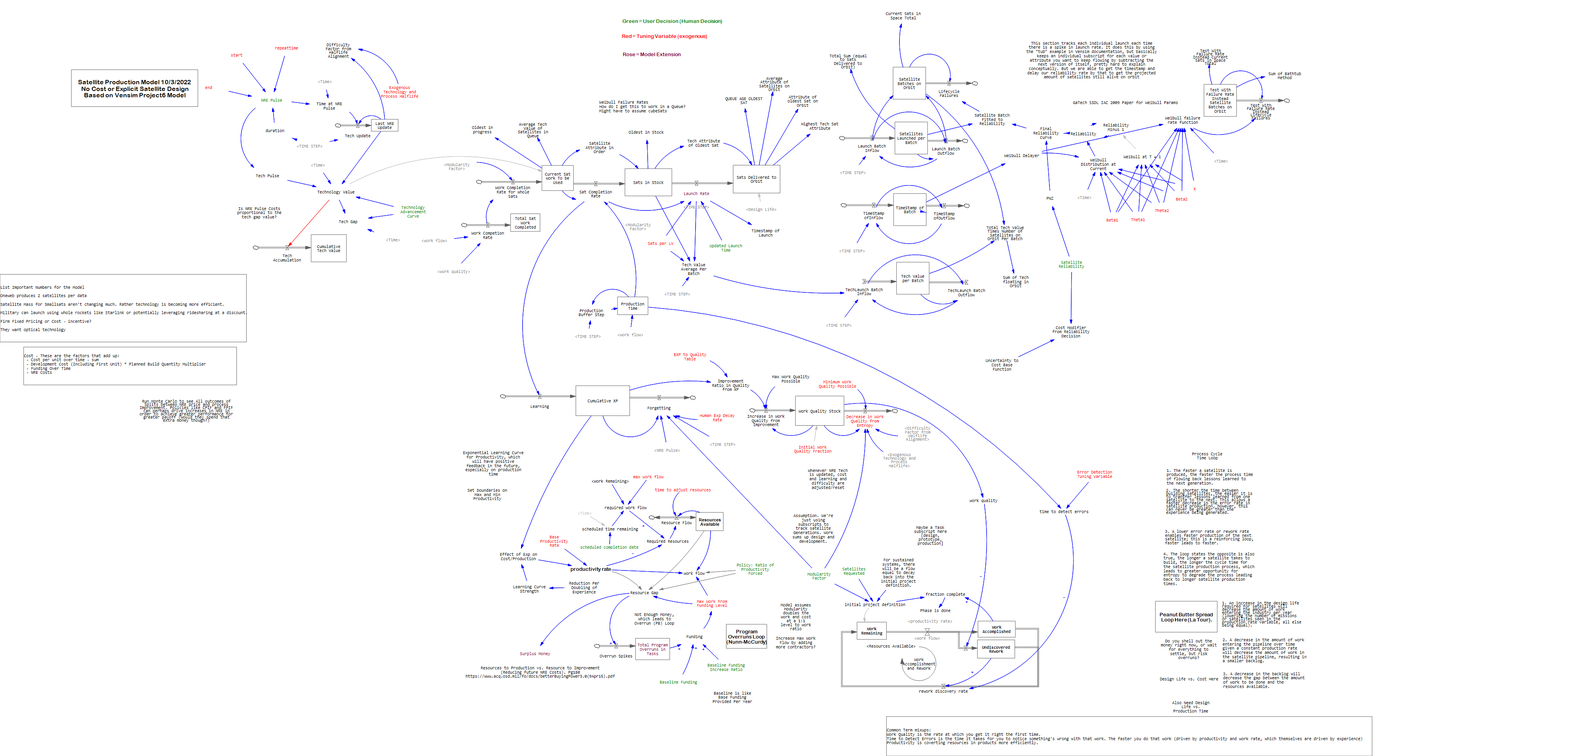
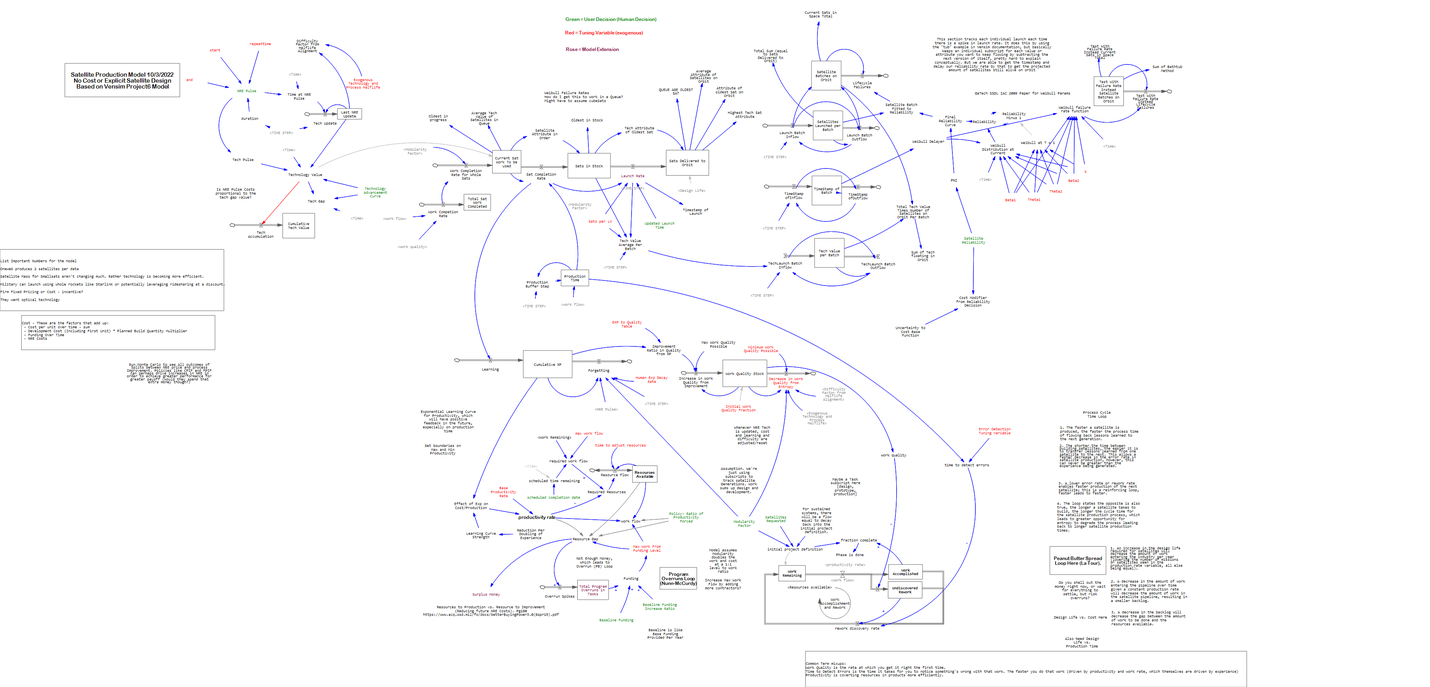
Add files via upload

diff --git a/index.html b/index.html
@@ -9,8 +9,8 @@ div.sketch {
   position: relative;
 }
 .io-slider-box {
-background-color: white; border: 1px solid gray; font-size:8px;
-text-align: center; vertical-align: middle; line-height: 9px;
+background-color: white; border: 1px solid gray; font-size:7px;
+text-align: center; vertical-align: middle; line-height: 8px;
 }
 .io-slider-slide {
   padding: 0; margin: 0; -webkit-appearance: none; background: transparent;
@@ -19,15 +19,15 @@ text-align: center; vertical-align: middle; line-height: 9px;
   background: transparent; border-color: transparent; color: transparent;
 }
 .io-slider-slide::-webkit-slider-thumb {
-  -webkit-appearance: none; width: 10px; height: 10px;
+  -webkit-appearance: none; width: 9px; height: 9px;
   border-radius: 20%; background: blue; cursor: pointer;
 }
 .io-slider-slide::-moz-range-thumb {
-  height: 10px; width: 10px;
+  height: 9px; width: 9px;
     border-radius: 20%; background: blue; cursor: pointer;
 }
 .io-slider-slide::-ms-thumb {
-  height: 10px; width: 10px;
+  height: 9px; width: 9px;
   border-radius: 20%; background: blue; cursor: pointer;
 }
 div.io-chart {
@@ -73,172 +73,172 @@ button.exportCSV {
 
 <div class="sketch">
 <img src="sketch.png"></img>
-<div class="io-slider-box" name="time to adjust resources" style="position: absolute; top: 1247px; left: 1650px; width: 150px; height: 9px">
+<div class="io-slider-box" name="time to adjust resources" style="position: absolute; top: 1134px; left: 1500px; width: 136px; height: 8px">
 1
 </div>
-<input class="io-slider-slide" style="position: absolute; top: 1256px; left: 1650px; width: 150px" type="range" name="time to adjust resources" min="-1" max="2" step="0.01"></input>
-<div class="io-slider-box" name="max work flow" style="position: absolute; top: 1214px; left: 1596px; width: 83px; height: 10px">
+<input class="io-slider-slide" style="position: absolute; top: 1142px; left: 1500px; width: 136px" type="range" name="time to adjust resources" min="-1" max="2" step="0.01"></input>
+<div class="io-slider-box" name="max work flow" style="position: absolute; top: 1104px; left: 1451px; width: 75px; height: 8px">
 500
 </div>
-<input class="io-slider-slide" style="position: absolute; top: 1224px; left: 1596px; width: 83px" type="range" name="max work flow" min="-1000" max="2000" step="10"></input>
-<div class="io-slider-box" name="scheduled completion date" style="position: absolute; top: 1392px; left: 1461px; width: 156px; height: 10px">
+<input class="io-slider-slide" style="position: absolute; top: 1112px; left: 1451px; width: 75px" type="range" name="max work flow" min="-1000" max="2000" step="10"></input>
+<div class="io-slider-box" name="scheduled completion date" style="position: absolute; top: 1266px; left: 1329px; width: 141px; height: 8px">
 60
 </div>
-<input class="io-slider-slide" style="position: absolute; top: 1402px; left: 1461px; width: 156px" type="range" name="scheduled completion date" min="-100" max="200" step="1"></input>
-<div class="io-slider-box" name="Baseline Funding" style="position: absolute; top: 1745px; left: 1663px; width: 101px; height: 9px">
+<input class="io-slider-slide" style="position: absolute; top: 1274px; left: 1329px; width: 141px" type="range" name="scheduled completion date" min="-100" max="200" step="1"></input>
+<div class="io-slider-box" name="Baseline Funding" style="position: absolute; top: 1586px; left: 1512px; width: 91px; height: 9px">
 250
 </div>
-<input class="io-slider-slide" style="position: absolute; top: 1754px; left: 1663px; width: 101px" type="range" name="Baseline Funding" min="-1000" max="2000" step="10"></input>
-<div class="io-slider-box" name="Satellites Requested" style="position: absolute; top: 1464px; left: 2107px; width: 100px; height: 10px">
+<input class="io-slider-slide" style="position: absolute; top: 1595px; left: 1512px; width: 91px" type="range" name="Baseline Funding" min="-1000" max="2000" step="10"></input>
+<div class="io-slider-box" name="Satellites Requested" style="position: absolute; top: 1331px; left: 1915px; width: 91px; height: 9px">
 1000
 </div>
-<input class="io-slider-slide" style="position: absolute; top: 1474px; left: 2107px; width: 100px" type="range" name="Satellites Requested" min="-1000" max="2000" step="10"></input>
-<div class="io-slider-box" name="Modularity Factor" style="position: absolute; top: 1477px; left: 2019px; width: 100px; height: 9px">
+<input class="io-slider-slide" style="position: absolute; top: 1340px; left: 1915px; width: 91px" type="range" name="Satellites Requested" min="-1000" max="2000" step="10"></input>
+<div class="io-slider-box" name="Modularity Factor" style="position: absolute; top: 1343px; left: 1835px; width: 92px; height: 8px">
 1
 </div>
-<input class="io-slider-slide" style="position: absolute; top: 1486px; left: 2019px; width: 100px" type="range" name="Modularity Factor" min="1" max="6" step="1"></input>
-<div class="io-slider-box" name="Modularity Factor" style="position: absolute; top: 594px; left: 1561px; width: 101px; height: 9px">
+<input class="io-slider-slide" style="position: absolute; top: 1351px; left: 1835px; width: 92px" type="range" name="Modularity Factor" min="1" max="6" step="1"></input>
+<div class="io-slider-box" name="Modularity Factor" style="position: absolute; top: 540px; left: 1419px; width: 92px; height: 8px">
 1
 </div>
-<input class="io-slider-slide" style="position: absolute; top: 603px; left: 1561px; width: 101px" type="range" name="Modularity Factor" min="1" max="6" step="1"></input>
-<div class="io-slider-box" name="Exogenous Technology and Process Halflife" style="position: absolute; top: 253px; left: 959px; width: 100px; height: 9px">
+<input class="io-slider-slide" style="position: absolute; top: 548px; left: 1419px; width: 92px" type="range" name="Modularity Factor" min="1" max="6" step="1"></input>
+<div class="io-slider-box" name="Exogenous Technology and Process Halflife" style="position: absolute; top: 230px; left: 872px; width: 91px; height: 8px">
 48
 </div>
-<input class="io-slider-slide" style="position: absolute; top: 262px; left: 959px; width: 100px" type="range" name="Exogenous Technology and Process Halflife" min="-100" max="200" step="1"></input>
-<div class="io-slider-box" name="TIME STEP" style="position: absolute; top: 389px; left: 732px; width: 100px; height: 10px">
+<input class="io-slider-slide" style="position: absolute; top: 238px; left: 872px; width: 91px" type="range" name="Exogenous Technology and Process Halflife" min="-100" max="200" step="1"></input>
+<div class="io-slider-box" name="TIME STEP" style="position: absolute; top: 354px; left: 665px; width: 92px; height: 9px">
 0.125
 </div>
-<input class="io-slider-slide" style="position: absolute; top: 399px; left: 732px; width: 100px" type="range" name="TIME STEP" min="-1" max="2" step="0.01"></input>
-<div class="io-slider-box" name="start" style="position: absolute; top: 160px; left: 548px; width: 100px; height: 10px">
+<input class="io-slider-slide" style="position: absolute; top: 363px; left: 665px; width: 92px" type="range" name="TIME STEP" min="-1" max="2" step="0.01"></input>
+<div class="io-slider-box" name="start" style="position: absolute; top: 146px; left: 498px; width: 91px; height: 8px">
 0
 </div>
-<input class="io-slider-slide" style="position: absolute; top: 170px; left: 548px; width: 100px" type="range" name="start" min="-1" max="2" step="0.01"></input>
-<div class="io-slider-box" name="repeattime" style="position: absolute; top: 142px; left: 674px; width: 100px; height: 10px">
+<input class="io-slider-slide" style="position: absolute; top: 154px; left: 498px; width: 91px" type="range" name="start" min="-1" max="2" step="0.01"></input>
+<div class="io-slider-box" name="repeattime" style="position: absolute; top: 129px; left: 612px; width: 92px; height: 9px">
 12
 </div>
-<input class="io-slider-slide" style="position: absolute; top: 152px; left: 674px; width: 100px" type="range" name="repeattime" min="-100" max="200" step="1"></input>
-<div class="io-slider-box" name="end" style="position: absolute; top: 242px; left: 477px; width: 100px; height: 9px">
+<input class="io-slider-slide" style="position: absolute; top: 138px; left: 612px; width: 92px" type="range" name="repeattime" min="-100" max="200" step="1"></input>
+<div class="io-slider-box" name="end" style="position: absolute; top: 220px; left: 433px; width: 92px; height: 9px">
 60
 </div>
-<input class="io-slider-slide" style="position: absolute; top: 251px; left: 477px; width: 100px" type="range" name="end" min="-100" max="200" step="1"></input>
-<div class="io-slider-box" name="Updated Launch Time" style="position: absolute; top: 647px; left: 1783px; width: 101px; height: 10px">
+<input class="io-slider-slide" style="position: absolute; top: 229px; left: 433px; width: 92px" type="range" name="end" min="-100" max="200" step="1"></input>
+<div class="io-slider-box" name="Updated Launch Time" style="position: absolute; top: 588px; left: 1621px; width: 91px; height: 9px">
 0.25
 </div>
-<input class="io-slider-slide" style="position: absolute; top: 657px; left: 1783px; width: 101px" type="range" name="Updated Launch Time" min="-1" max="2" step="0.01"></input>
-<div class="io-slider-box" name="Sats per LV" style="position: absolute; top: 636px; left: 1618px; width: 101px; height: 9px">
+<input class="io-slider-slide" style="position: absolute; top: 597px; left: 1621px; width: 91px" type="range" name="Updated Launch Time" min="-1" max="2" step="0.01"></input>
+<div class="io-slider-box" name="Sats per LV" style="position: absolute; top: 578px; left: 1471px; width: 91px; height: 9px">
 55
 </div>
-<input class="io-slider-slide" style="position: absolute; top: 645px; left: 1618px; width: 101px" type="range" name="Sats per LV" min="1" max="100" step="1"></input>
-<div class="io-slider-box" name="Modularity Factor" style="position: absolute; top: 442px; left: 1104px; width: 100px; height: 9px">
+<input class="io-slider-slide" style="position: absolute; top: 587px; left: 1471px; width: 91px" type="range" name="Sats per LV" min="1" max="100" step="1"></input>
+<div class="io-slider-box" name="Modularity Factor" style="position: absolute; top: 402px; left: 1003px; width: 92px; height: 8px">
 1
 </div>
-<input class="io-slider-slide" style="position: absolute; top: 451px; left: 1104px; width: 100px" type="range" name="Modularity Factor" min="1" max="6" step="1"></input>
-<div class="io-slider-box" name="Satellite Reliability" style="position: absolute; top: 689px; left: 2656px; width: 101px; height: 9px">
+<input class="io-slider-slide" style="position: absolute; top: 410px; left: 1003px; width: 92px" type="range" name="Modularity Factor" min="1" max="6" step="1"></input>
+<div class="io-slider-box" name="Satellite Reliability" style="position: absolute; top: 626px; left: 2415px; width: 91px; height: 9px">
 0.9
 </div>
-<input class="io-slider-slide" style="position: absolute; top: 698px; left: 2656px; width: 101px" type="range" name="Satellite Reliability" min="0" max="1" step="0.01"></input>
-<div class="io-slider-box" name="Beta1" style="position: absolute; top: 577px; left: 2759px; width: 101px; height: 9px">
+<input class="io-slider-slide" style="position: absolute; top: 635px; left: 2415px; width: 91px" type="range" name="Satellite Reliability" min="0" max="1" step="0.01"></input>
+<div class="io-slider-box" name="Beta1" style="position: absolute; top: 525px; left: 2508px; width: 92px; height: 8px">
 0.4154
 </div>
-<input class="io-slider-slide" style="position: absolute; top: 586px; left: 2759px; width: 101px" type="range" name="Beta1" min="-1" max="2" step="0.01"></input>
-<div class="io-slider-box" name="Beta2" style="position: absolute; top: 523px; left: 2935px; width: 100px; height: 10px">
+<input class="io-slider-slide" style="position: absolute; top: 533px; left: 2508px; width: 92px" type="range" name="Beta1" min="-1" max="2" step="0.01"></input>
+<div class="io-slider-box" name="Beta2" style="position: absolute; top: 476px; left: 2668px; width: 91px; height: 8px">
 5.06
 </div>
-<input class="io-slider-slide" style="position: absolute; top: 533px; left: 2935px; width: 100px" type="range" name="Beta2" min="-10" max="20" step="0.1"></input>
-<div class="io-slider-box" name="Theta1" style="position: absolute; top: 576px; left: 2824px; width: 101px; height: 9px">
+<input class="io-slider-slide" style="position: absolute; top: 484px; left: 2668px; width: 91px" type="range" name="Beta2" min="-10" max="20" step="0.1"></input>
+<div class="io-slider-box" name="Theta1" style="position: absolute; top: 523px; left: 2567px; width: 92px; height: 9px">
 558612
 </div>
-<input class="io-slider-slide" style="position: absolute; top: 585px; left: 2824px; width: 101px" type="range" name="Theta1" min="-1e+06" max="2e+06" step="10000"></input>
-<div class="io-slider-box" name="Theta2" style="position: absolute; top: 553px; left: 2885px; width: 100px; height: 9px">
+<input class="io-slider-slide" style="position: absolute; top: 532px; left: 2567px; width: 92px" type="range" name="Theta1" min="-1e+06" max="2e+06" step="10000"></input>
+<div class="io-slider-box" name="Theta2" style="position: absolute; top: 503px; left: 2622px; width: 92px; height: 8px">
 122.52
 </div>
-<input class="io-slider-slide" style="position: absolute; top: 562px; left: 2885px; width: 100px" type="range" name="Theta2" min="-1000" max="2000" step="10"></input>
-<div class="io-slider-box" name="k" style="position: absolute; top: 497px; left: 2968px; width: 100px; height: 10px">
+<input class="io-slider-slide" style="position: absolute; top: 511px; left: 2622px; width: 92px" type="range" name="Theta2" min="-1000" max="2000" step="10"></input>
+<div class="io-slider-box" name="k" style="position: absolute; top: 452px; left: 2698px; width: 91px; height: 9px">
 0.9057
 </div>
-<input class="io-slider-slide" style="position: absolute; top: 507px; left: 2968px; width: 100px" type="range" name="k" min="-1" max="2" step="0.01"></input>
-<div class="io-slider-box" name="Design Life" style="position: absolute; top: 550px; left: 1873px; width: 100px; height: 10px">
+<input class="io-slider-slide" style="position: absolute; top: 461px; left: 2698px; width: 91px" type="range" name="k" min="-1" max="2" step="0.01"></input>
+<div class="io-slider-box" name="Design Life" style="position: absolute; top: 500px; left: 1703px; width: 91px; height: 9px">
 24
 </div>
-<input class="io-slider-slide" style="position: absolute; top: 560px; left: 1873px; width: 100px" type="range" name="Design Life" min="8.40779e-45" max="200" step="1"></input>
-<div class="io-slider-box" name="TIME STEP" style="position: absolute; top: 457px; left: 2104px; width: 100px; height: 9px">
+<input class="io-slider-slide" style="position: absolute; top: 509px; left: 1703px; width: 91px" type="range" name="Design Life" min="8.40779e-45" max="200" step="1"></input>
+<div class="io-slider-box" name="TIME STEP" style="position: absolute; top: 416px; left: 1913px; width: 91px; height: 8px">
 0.125
 </div>
-<input class="io-slider-slide" style="position: absolute; top: 466px; left: 2104px; width: 100px" type="range" name="TIME STEP" min="-1" max="2" step="0.01"></input>
-<div class="io-slider-box" name="TIME STEP" style="position: absolute; top: 655px; left: 2102px; width: 100px; height: 9px">
+<input class="io-slider-slide" style="position: absolute; top: 424px; left: 1913px; width: 91px" type="range" name="TIME STEP" min="-1" max="2" step="0.01"></input>
+<div class="io-slider-box" name="TIME STEP" style="position: absolute; top: 595px; left: 1911px; width: 91px; height: 9px">
 0.125
 </div>
-<input class="io-slider-slide" style="position: absolute; top: 664px; left: 2102px; width: 100px" type="range" name="TIME STEP" min="-1" max="2" step="0.01"></input>
-<div class="io-slider-box" name="TIME STEP" style="position: absolute; top: 842px; left: 2068px; width: 101px; height: 10px">
+<input class="io-slider-slide" style="position: absolute; top: 604px; left: 1911px; width: 91px" type="range" name="TIME STEP" min="-1" max="2" step="0.01"></input>
+<div class="io-slider-box" name="TIME STEP" style="position: absolute; top: 766px; left: 1880px; width: 92px; height: 8px">
 0.125
 </div>
-<input class="io-slider-slide" style="position: absolute; top: 852px; left: 2068px; width: 101px" type="range" name="TIME STEP" min="-1" max="2" step="0.01"></input>
-<div class="io-slider-box" name="TIME STEP" style="position: absolute; top: 544px; left: 1709px; width: 100px; height: 10px">
+<input class="io-slider-slide" style="position: absolute; top: 774px; left: 1880px; width: 92px" type="range" name="TIME STEP" min="-1" max="2" step="0.01"></input>
+<div class="io-slider-box" name="TIME STEP" style="position: absolute; top: 495px; left: 1553px; width: 92px; height: 8px">
 0.125
 </div>
-<input class="io-slider-slide" style="position: absolute; top: 554px; left: 1709px; width: 100px" type="range" name="TIME STEP" min="-1" max="2" step="0.01"></input>
-<div class="io-slider-box" name="TIME STEP" style="position: absolute; top: 764px; left: 1660px; width: 101px; height: 9px">
+<input class="io-slider-slide" style="position: absolute; top: 503px; left: 1553px; width: 92px" type="range" name="TIME STEP" min="-1" max="2" step="0.01"></input>
+<div class="io-slider-box" name="TIME STEP" style="position: absolute; top: 694px; left: 1509px; width: 92px; height: 9px">
 0.125
 </div>
-<input class="io-slider-slide" style="position: absolute; top: 773px; left: 1660px; width: 101px" type="range" name="TIME STEP" min="-1" max="2" step="0.01"></input>
-<div class="io-slider-box" name="Human Exp Decay Rate" style="position: absolute; top: 1076px; left: 1762px; width: 100px; height: 10px">
+<input class="io-slider-slide" style="position: absolute; top: 703px; left: 1509px; width: 92px" type="range" name="TIME STEP" min="-1" max="2" step="0.01"></input>
+<div class="io-slider-box" name="Human Exp Decay Rate" style="position: absolute; top: 978px; left: 1601px; width: 92px; height: 9px">
 24
 </div>
-<input class="io-slider-slide" style="position: absolute; top: 1086px; left: 1762px; width: 100px" type="range" name="Human Exp Decay Rate" min="-100" max="200" step="1"></input>
-<div class="io-slider-box" name="Baseline Funding Increase Ratio" style="position: absolute; top: 1707px; left: 1784px; width: 100px; height: 10px">
+<input class="io-slider-slide" style="position: absolute; top: 987px; left: 1601px; width: 92px" type="range" name="Human Exp Decay Rate" min="-100" max="200" step="1"></input>
+<div class="io-slider-box" name="Baseline Funding Increase Ratio" style="position: absolute; top: 1552px; left: 1622px; width: 91px; height: 9px">
 0.25
 </div>
-<input class="io-slider-slide" style="position: absolute; top: 1717px; left: 1784px; width: 100px" type="range" name="Baseline Funding Increase Ratio" min="-1" max="2" step="0.01"></input>
-<div class="io-slider-box" name="Max Work Quality Possible" style="position: absolute; top: 978px; left: 1947px; width: 101px; height: 10px">
+<input class="io-slider-slide" style="position: absolute; top: 1561px; left: 1622px; width: 91px" type="range" name="Baseline Funding Increase Ratio" min="-1" max="2" step="0.01"></input>
+<div class="io-slider-box" name="Max Work Quality Possible" style="position: absolute; top: 889px; left: 1770px; width: 91px; height: 9px">
 1
 </div>
-<input class="io-slider-slide" style="position: absolute; top: 988px; left: 1947px; width: 101px" type="range" name="Max Work Quality Possible" min="-1" max="2" step="0.01"></input>
-<div class="io-slider-box" name="Minimum Work Quality Possible" style="position: absolute; top: 991px; left: 2065px; width: 101px; height: 9px">
+<input class="io-slider-slide" style="position: absolute; top: 898px; left: 1770px; width: 91px" type="range" name="Max Work Quality Possible" min="-1" max="2" step="0.01"></input>
+<div class="io-slider-box" name="Minimum Work Quality Possible" style="position: absolute; top: 901px; left: 1877px; width: 92px; height: 8px">
 0.25
 </div>
-<input class="io-slider-slide" style="position: absolute; top: 1000px; left: 2065px; width: 101px" type="range" name="Minimum Work Quality Possible" min="-1" max="2" step="0.01"></input>
-<div class="io-slider-box" name="Initial Work Quality Fraction" style="position: absolute; top: 1156px; left: 2003px; width: 100px; height: 9px">
+<input class="io-slider-slide" style="position: absolute; top: 909px; left: 1877px; width: 92px" type="range" name="Minimum Work Quality Possible" min="-1" max="2" step="0.01"></input>
+<div class="io-slider-box" name="Initial Work Quality Fraction" style="position: absolute; top: 1051px; left: 1821px; width: 91px; height: 8px">
 0.34
 </div>
-<input class="io-slider-slide" style="position: absolute; top: 1165px; left: 2003px; width: 100px" type="range" name="Initial Work Quality Fraction" min="-1" max="2" step="0.01"></input>
-<div class="io-slider-box" name="Exogenous Technology and Process Halflife" style="position: absolute; top: 1183px; left: 2221px; width: 101px; height: 9px">
+<input class="io-slider-slide" style="position: absolute; top: 1059px; left: 1821px; width: 91px" type="range" name="Initial Work Quality Fraction" min="-1" max="2" step="0.01"></input>
+<div class="io-slider-box" name="Exogenous Technology and Process Halflife" style="position: absolute; top: 1075px; left: 2019px; width: 92px; height: 9px">
 48
 </div>
-<input class="io-slider-slide" style="position: absolute; top: 1192px; left: 2221px; width: 101px" type="range" name="Exogenous Technology and Process Halflife" min="-100" max="200" step="1"></input>
-<div class="io-slider-box" name="Base Productivity Rate" style="position: absolute; top: 1388px; left: 1350px; width: 100px; height: 10px">
+<input class="io-slider-slide" style="position: absolute; top: 1084px; left: 2019px; width: 92px" type="range" name="Exogenous Technology and Process Halflife" min="-100" max="200" step="1"></input>
+<div class="io-slider-box" name="Base Productivity Rate" style="position: absolute; top: 1262px; left: 1227px; width: 91px; height: 9px">
 1
 </div>
-<input class="io-slider-slide" style="position: absolute; top: 1398px; left: 1350px; width: 100px" type="range" name="Base Productivity Rate" min="-1" max="2" step="0.01"></input>
-<div class="io-slider-box" name=""Policy: Ratio of Productivity Forced"" style="position: absolute; top: 1459px; left: 1857px; width: 101px; height: 10px">
+<input class="io-slider-slide" style="position: absolute; top: 1271px; left: 1227px; width: 91px" type="range" name="Base Productivity Rate" min="-1" max="2" step="0.01"></input>
+<div class="io-slider-box" name=""Policy: Ratio of Productivity Forced"" style="position: absolute; top: 1327px; left: 1689px; width: 91px; height: 8px">
 1
 </div>
-<input class="io-slider-slide" style="position: absolute; top: 1469px; left: 1857px; width: 101px" type="range" name=""Policy: Ratio of Productivity Forced"" min="-1" max="2" step="0.01"></input>
-<div class="io-slider-box" name="TIME STEP" style="position: absolute; top: 871px; left: 1435px; width: 100px; height: 10px">
+<input class="io-slider-slide" style="position: absolute; top: 1335px; left: 1689px; width: 91px" type="range" name=""Policy: Ratio of Productivity Forced"" min="-1" max="2" step="0.01"></input>
+<div class="io-slider-box" name="TIME STEP" style="position: absolute; top: 792px; left: 1304px; width: 92px; height: 8px">
 0.125
 </div>
-<input class="io-slider-slide" style="position: absolute; top: 881px; left: 1435px; width: 100px" type="range" name="TIME STEP" min="-1" max="2" step="0.01"></input>
-<div class="io-slider-box" name="Error Detection Tuning Variable" style="position: absolute; top: 1220px; left: 2715px; width: 101px; height: 9px">
+<input class="io-slider-slide" style="position: absolute; top: 800px; left: 1304px; width: 92px" type="range" name="TIME STEP" min="-1" max="2" step="0.01"></input>
+<div class="io-slider-box" name="Error Detection Tuning Variable" style="position: absolute; top: 1109px; left: 2468px; width: 92px; height: 8px">
 250
 </div>
-<input class="io-slider-slide" style="position: absolute; top: 1229px; left: 2715px; width: 101px" type="range" name="Error Detection Tuning Variable" min="-1000" max="2000" step="10"></input>
-<div class="io-slider-box" name="TIME STEP" style="position: absolute; top: 1144px; left: 1775px; width: 101px; height: 9px">
+<input class="io-slider-slide" style="position: absolute; top: 1117px; left: 2468px; width: 92px" type="range" name="Error Detection Tuning Variable" min="-1000" max="2000" step="10"></input>
+<div class="io-slider-box" name="TIME STEP" style="position: absolute; top: 1040px; left: 1614px; width: 91px; height: 8px">
 0.125
 </div>
-<input class="io-slider-slide" style="position: absolute; top: 1153px; left: 1775px; width: 101px" type="range" name="TIME STEP" min="-1" max="2" step="0.01"></input>
-<div class="io-slider-box" name="Reduction Per Doubling of Experience" style="position: absolute; top: 1506px; left: 1425px; width: 101px; height: 9px">
+<input class="io-slider-slide" style="position: absolute; top: 1048px; left: 1614px; width: 91px" type="range" name="TIME STEP" min="-1" max="2" step="0.01"></input>
+<div class="io-slider-box" name="Reduction Per Doubling of Experience" style="position: absolute; top: 1369px; left: 1296px; width: 91px; height: 8px">
 0.15
 </div>
-<input class="io-slider-slide" style="position: absolute; top: 1515px; left: 1425px; width: 101px" type="range" name="Reduction Per Doubling of Experience" min="-1" max="2" step="0.01"></input>
-<div class="io-chart" name="work flow and Resources Used" varname='work flow' xaxisname="Month" yaxisname="Tasks/Month" include0 style="position: absolute; top: 1429px; left: 364px; width: 417px; height: 294px"></div>
-<div class="io-chart" name="Work Accomplished and Work Remaining" varname='Work Accomplished' xaxisname="Month" yaxisname="Tasks" include0 style="position: absolute; top: 1435px; left: 789px; width: 372px; height: 289px"></div>
-<div class="io-chart" name="Average Attribute of Satellites on Orbit" varname='Average Attribute of Satellites on Orbit' xaxisname="Month" yaxisname="" include0 style="position: absolute; top: 288px; left: 182px; width: 377px; height: 356px"></div>
-<div class="io-chart" name="Sum of Tech floating in Orbit" varname='Sum of Tech floating in Orbit' xaxisname="Month" yaxisname="" include0 style="position: absolute; top: 629px; left: 2820px; width: 424px; height: 406px"></div>
-<div class="io-chart" name="Current Sats in Space Total" varname='Current Sats in Space Total' xaxisname="Month" yaxisname="" include0 style="position: absolute; top: 627px; left: 3253px; width: 393px; height: 414px"></div>
-<div class="io-chart" name="Test With Failure Rate Instead Current Sats in Space Total" varname='Test With Failure Rate Instead Current Sats in Space Total' xaxisname="Month" yaxisname="" include0 style="position: absolute; top: 34px; left: 3318px; width: 658px; height: 579px"></div>
-<div class="io-chart" name="Surplus Money" varname='Surplus Money' xaxisname="Month" yaxisname="Dollars/Month" include0 style="position: absolute; top: 1074px; left: 784px; width: 379px; height: 359px"></div>
-<div class="io-chart" name="Overruns_Graph" varname='Overrun Spikes' xaxisname="Month" yaxisname="Dollars/Month" include0 style="position: absolute; top: 1076px; left: 361px; width: 421px; height: 354px"></div>
-<div class="io-chart" name="Cumulative XP" varname='' xaxisname="Month" yaxisname="" include0 style="position: absolute; top: 698px; left: 643px; width: 487px; height: 367px"></div>
-<div class="io-chart" name="NRE Pulses and Input" varname='Technology Advancement Curve' xaxisname="Month" yaxisname="Dmnl" include0 style="position: absolute; top: 0px; left: 1074px; width: 424px; height: 310px"></div>
+<input class="io-slider-slide" style="position: absolute; top: 1377px; left: 1296px; width: 91px" type="range" name="Reduction Per Doubling of Experience" min="-1" max="2" step="0.01"></input>
+<div class="io-chart" name="work flow and Resources Used" varname='work flow' xaxisname="Month" yaxisname="Tasks/Month" include0 style="position: absolute; top: 1299px; left: 331px; width: 379px; height: 267px"></div>
+<div class="io-chart" name="Work Accomplished and Work Remaining" varname='Work Accomplished' xaxisname="Month" yaxisname="Tasks" include0 style="position: absolute; top: 1304px; left: 717px; width: 339px; height: 263px"></div>
+<div class="io-chart" name="Average Attribute of Satellites on Orbit" varname='Average Attribute of Satellites on Orbit' xaxisname="Month" yaxisname="" include0 style="position: absolute; top: 261px; left: 166px; width: 342px; height: 324px"></div>
+<div class="io-chart" name="Sum of Tech floating in Orbit" varname='Sum of Tech floating in Orbit' xaxisname="Month" yaxisname="" include0 style="position: absolute; top: 572px; left: 2563px; width: 386px; height: 369px"></div>
+<div class="io-chart" name="Current Sats in Space Total" varname='Current Sats in Space Total' xaxisname="Month" yaxisname="" include0 style="position: absolute; top: 570px; left: 2957px; width: 357px; height: 377px"></div>
+<div class="io-chart" name="Test With Failure Rate Instead Current Sats in Space Total" varname='Test With Failure Rate Instead Current Sats in Space Total' xaxisname="Month" yaxisname="" include0 style="position: absolute; top: 31px; left: 3016px; width: 598px; height: 526px"></div>
+<div class="io-chart" name="Surplus Money" varname='Surplus Money' xaxisname="Month" yaxisname="Dollars/Month" include0 style="position: absolute; top: 976px; left: 713px; width: 344px; height: 326px"></div>
+<div class="io-chart" name="Overruns_Graph" varname='Overrun Spikes' xaxisname="Month" yaxisname="Dollars/Month" include0 style="position: absolute; top: 978px; left: 328px; width: 383px; height: 322px"></div>
+<div class="io-chart" name="Cumulative XP" varname='' xaxisname="Month" yaxisname="" include0 style="position: absolute; top: 634px; left: 585px; width: 442px; height: 334px"></div>
+<div class="io-chart" name="NRE Pulses and Input" varname='Technology Advancement Curve' xaxisname="Month" yaxisname="Dmnl" include0 style="position: absolute; top: 0px; left: 976px; width: 385px; height: 282px"></div>
 </div>
 
 <script type="text/javascript">
